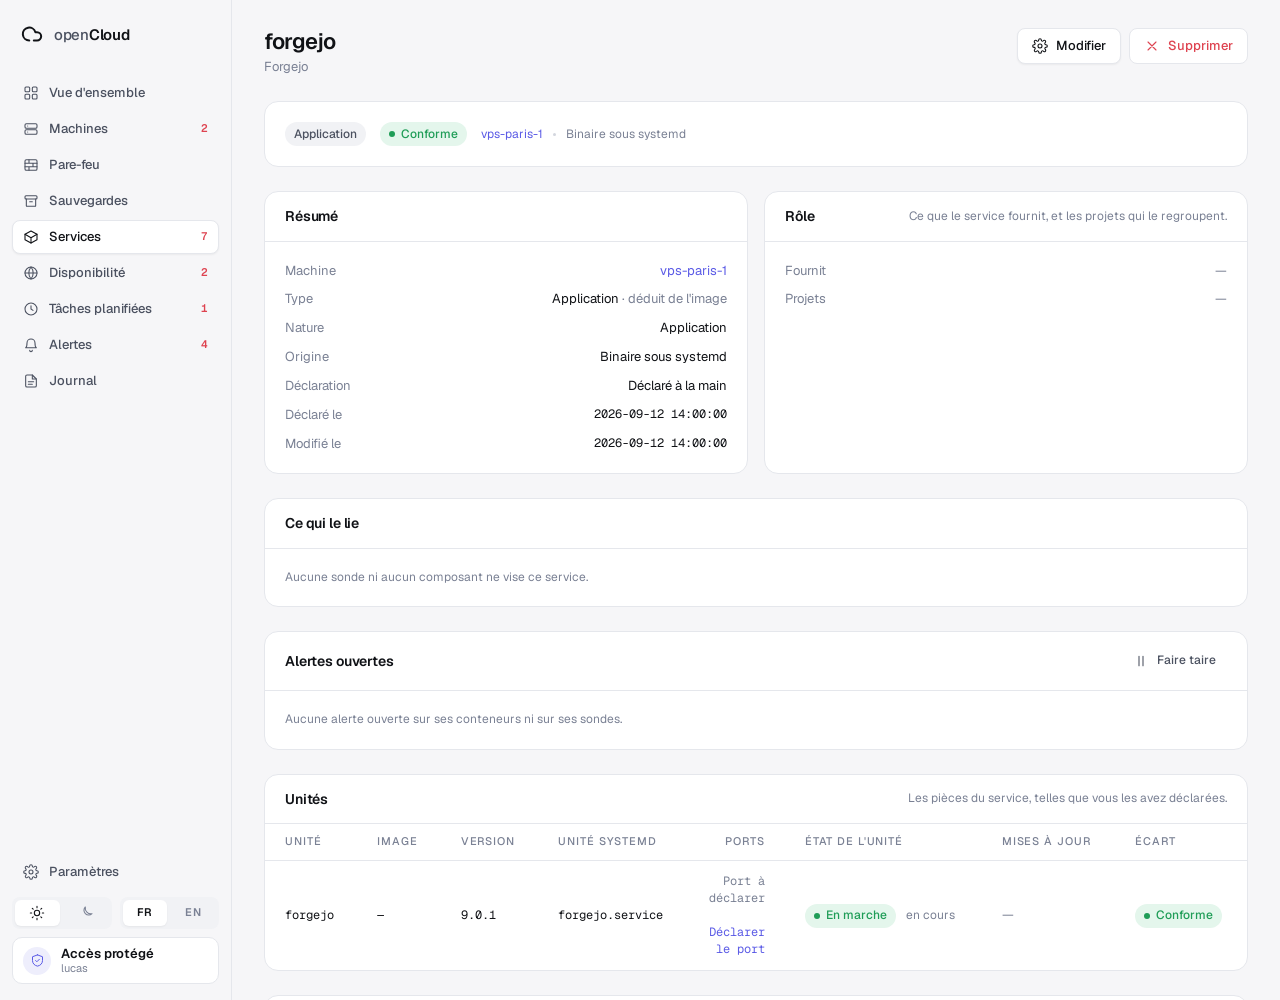
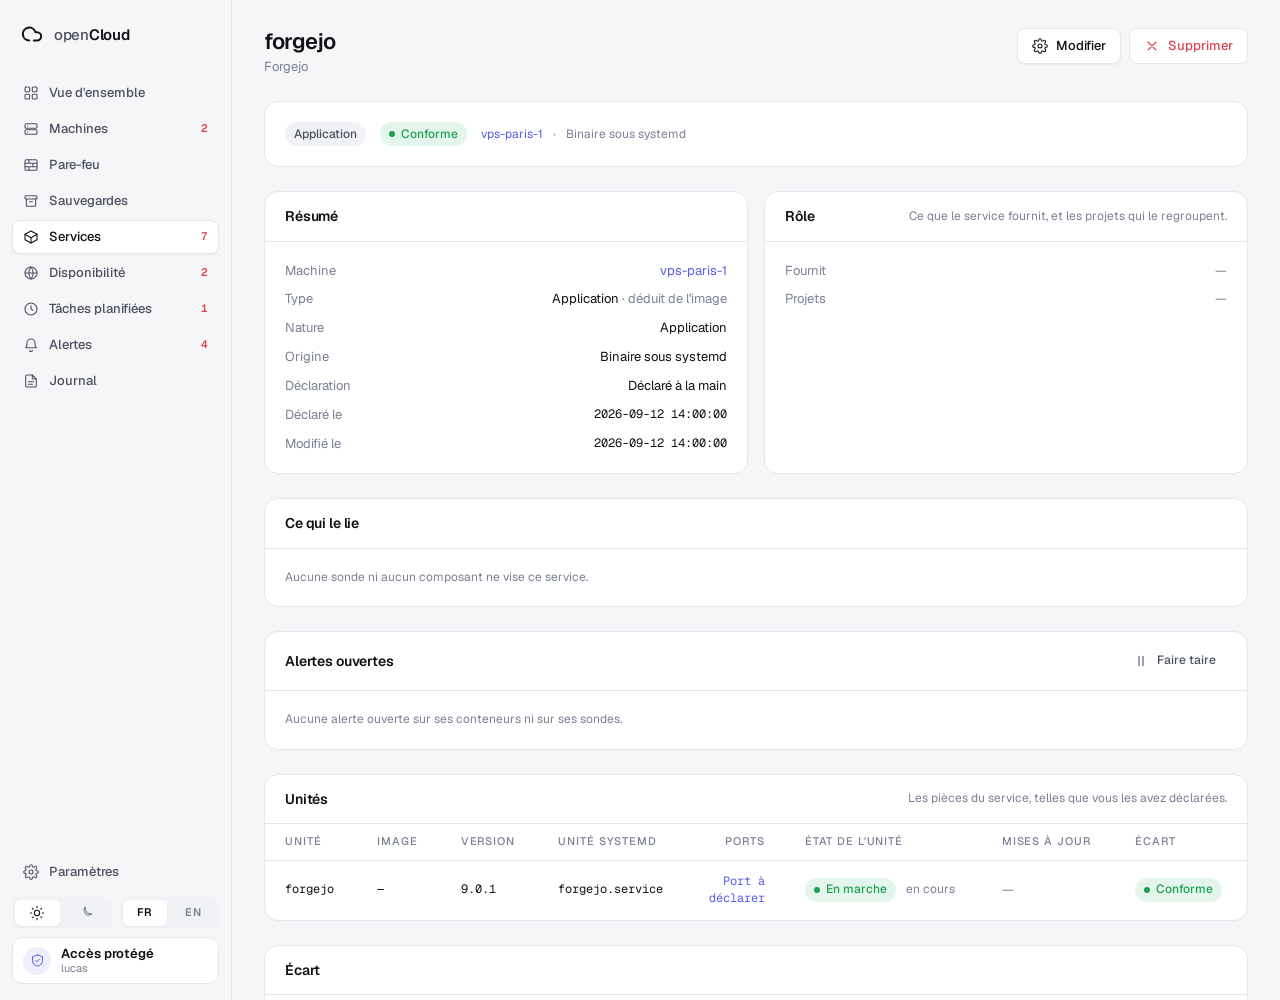
docs(code-mort): rapport de L2; fonctionnement et modèle cible à jour

diff --git a/internal/directory/match.go b/internal/directory/match.go
@@ -28,7 +28,8 @@ import (
 // n'arrive qu'à un conteneur Compose dont le nom est aussi déclaré par un
 // service « conteneur seul » : celui-ci paraît alors « déclaré absent ».
 // Plusieurs conteneurs d'une même unité sont admis (répliques). Une unité
-// binaire ne rapproche jamais rien. Un conteneur archivé n'est pas considéré :
+// binaire ne rapproche aucun conteneur : elle se rapproche du relevé systemd de sa
+// machine (ObserveUnits, units.go). Un conteneur archivé n'est pas considéré :
 // il garde le rattachement qu'il avait.
 //
 // Un label ne fait que chercher : il ne crée ni ne modifie jamais rien dans

diff --git a/docs/projet/22-fonctionnement.md b/docs/projet/22-fonctionnement.md
@@ -5593,6 +5593,7 @@ refusés avant d'envoyer quoi que ce soit.
 | Une clé du serveur volée se remplace par un ré-enrôlement | La rotation de `server.key` livre la neuve sous la signature de l'ancienne : elle sert à changer de clé, pas à chasser qui l'a prise. Une clé volée ou perdue se remplace en ré-enrôlant chaque agent. La clé d'un agent ne tourne pas non plus autrement | À décider, si un jour il faut mieux |
 | Le journal d'audit ne part que vers les canaux cochés | Aucun canal n'est coché d'office : tant qu'aucun ne reçoit le journal, qui efface la base efface la trace (la page Journal le dit). Un canal en panne plus de 24 h perd les envois de l'intervalle, sans rattrapage. Une ligne du journal qui échoue à s'écrire ne défait pas le geste, elle se lit en erreur au journal du processus | Par conception ; cocher « Recevoir le journal » sur un canal |
 | Les clés SSH ne se relèvent qu'en lecture, dans deux fichiers par compte | Un `AuthorizedKeysFile` personnalisé et `/etc/ssh/authorized_keys.d/` ne sont pas lus. Sous un compte dédié, l'agent ne lit pas les clés des autres comptes (« Illisible pour le compte de l'agent ») ; il ne faut **pas** lui donner `CAP_DAC_READ_SEARCH` pour y remédier : il lirait aussi `/etc/shadow`. L'écriture (`ssh.keys`, #152 étape 2) n'existe pas : ajouter ou retirer une clé reste un geste sur la machine | L'écriture attend une décision (`23-direction.md`, §10 étape 8) |
+| Les unités systemd ne se relèvent qu'au niveau du système, en nom et en état | Les unités d'un utilisateur (`systemctl --user`) ne sont pas vues ; la description, le processus, le fichier et l'environnement d'une unité ne sont jamais lus ; le **port** d'un binaire ne se déduit pas (il demanderait `/proc/<pid>/fd`, donc `ptrace`) : il se déclare. Les liens entre instances viennent avec L3 | Une décision de Lucas, si un jour le port doit se déduire (droit élevé : refusé par la décision 5 de l'étude) |
 | Un jeton d'API ne fait que lire | mcp-maison ne peut ni acquitter, ni mettre en pause, ni ouvrir un incident : la liste fermée ne compte aucune écriture, et l'acteur `api` n'écrit encore rien au journal | Avec les actions de l'API (#153, étape 5) |
 | Les journaux de conteneur partent chez le fournisseur du modèle | Ce qu'un agent IA lit par mcp-maison, journaux de conteneur compris, quitte la machine, comme tout ce qu'il lit ; c'est le choix de l'opérateur qui crée un jeton et branche mcp-maison | Par conception |
 | TLS servi par openCloud lui-même | Sans Traefik ni domaine, il faut `-pin` sur un certificat tiers | À part |

diff --git a/docs/projet/24-modele-cible.md b/docs/projet/24-modele-cible.md
@@ -725,7 +725,7 @@ Calculé par le serveur à chaque inventaire. Le niveau le plus fort gagne. Jama
 | Image ou version différente de l'épinglée | Écart « divergent » |
 | Conteneur rattaché, unité supprimée | `set null` : il redevient « présent non déclaré » |
 
-L'écart n'est pas stocké : il se calcule à la lecture, par service et par unité (conforme, absent, divergent, faible, non observé pour un binaire, version non vérifiable sur `latest` ou sans tag) et par conteneur (non déclaré).
+L'écart n'est pas stocké : il se calcule à la lecture, par service et par unité (conforme, absent, divergent, faible, non observé pour un binaire dont la machine n'a pas relevé systemd (trouvé : conforme ; absent d'un relevé lu : absent), version non vérifiable sur `latest` ou sans tag) et par conteneur (non déclaré).
 
 Ce que l'annuaire 2/5 livre de ce modèle, et comment (le détail est dans `22-fonctionnement.md`, « Comment un conteneur se rattache à l'annuaire ») :
 
